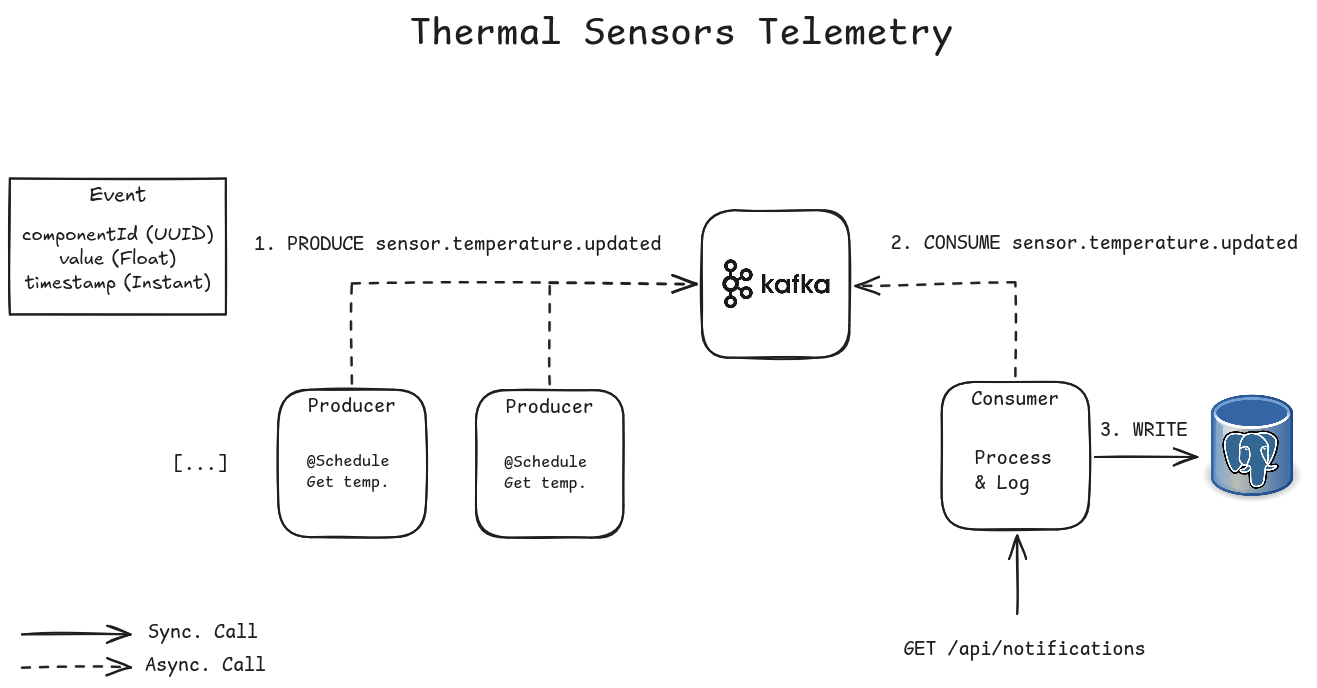
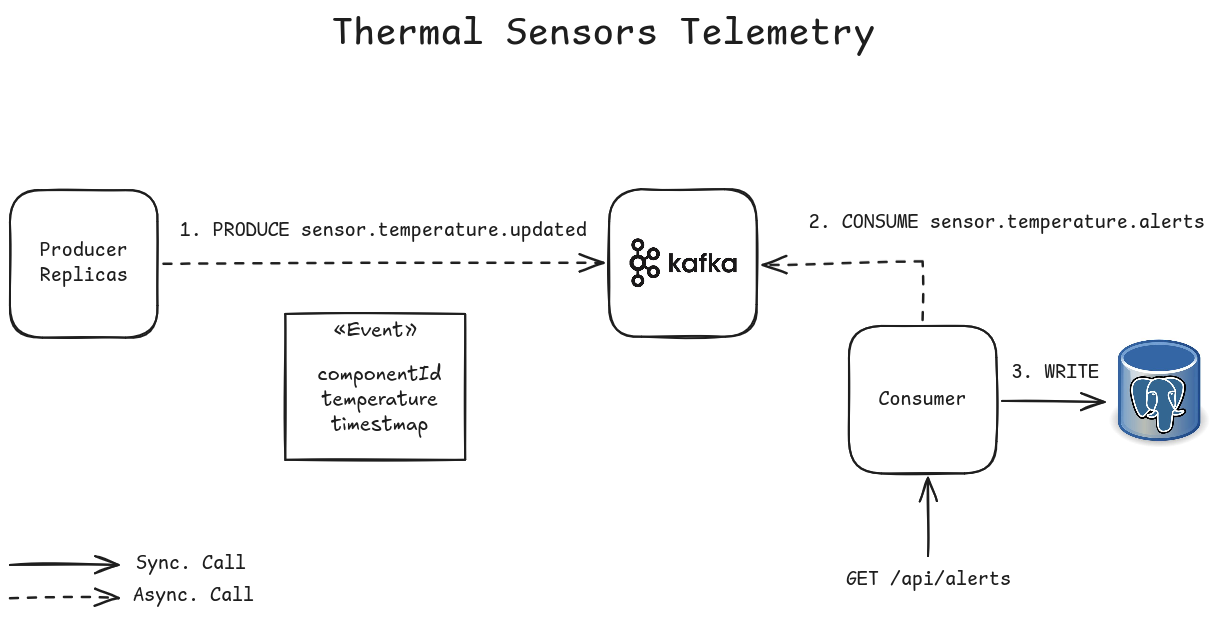
docs: update README

diff --git a/README.md b/README.md
@@ -18,6 +18,10 @@ The purpose is to create a simples IoT simulation with constant events and analy
 
 ![Architecture](images/arch.png)
 
+### Telemetry Analytics Stream
+
+![Kafka Streams](images/streams.png)
+
 ## How to execute
 
 1. Start all services